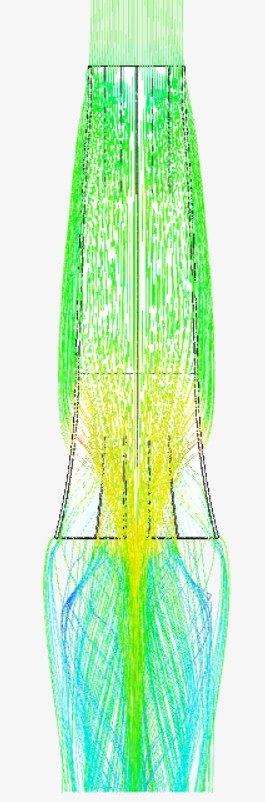
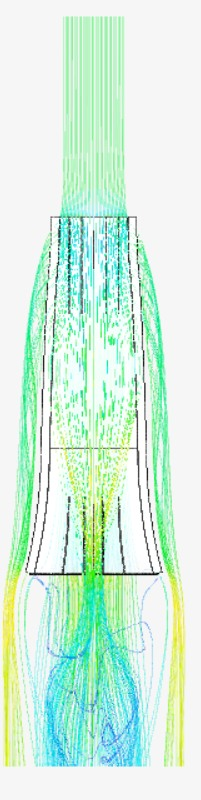
Update CFD flow images to the latest run
Replace the side, top, and angled streamline views and update the
top-view caption to mention the strakes and exit recirculation.

diff --git a/index.html b/index.html
@@ -276,7 +276,7 @@
   <div class="cfd-row">
     <figure style="margin:0">
       <div class="frame white tall"><img src="img/cfd-top.jpg" alt="Top view streamlines"></div>
-      <figcaption>Top view: the flow speeds up through the contraction, then spreads out behind the exit.</figcaption>
+      <figcaption>Top view: the strakes guide the flow through the contraction, then it slows and recirculates behind the exit.</figcaption>
     </figure>
     <figure style="margin:0">
       <div class="frame white"><img src="img/cfd-angle.jpg" alt="Angled view showing flow rolling over the side edges" style="width:100%"></div>
